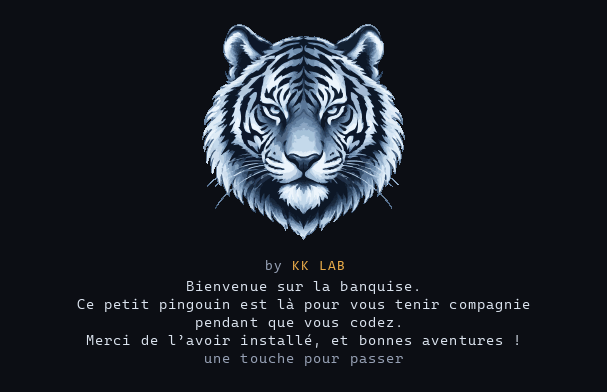
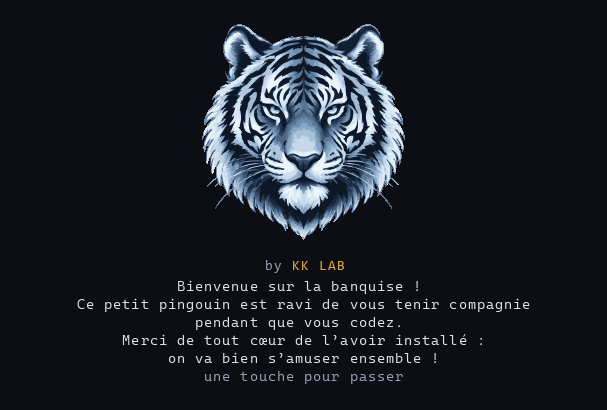
Warm up the intro message
« Bienvenue sur la banquise ! Ce petit pingouin est ravi de vous tenir compagnie pendant que vous codez. Merci de tout cœur de l’avoir installé : on va bien s’amuser ensemble ! »

Changed region(s): [[0.3262, 0.0612, 0.682, 0.6122], [0.1186, 0.6429, 0.8896, 0.949]]

diff --git a/dist/intro.js b/dist/intro.js
@@ -3,9 +3,9 @@ import { waitFrame } from "./frame-clock.js";
 import { imagesAllowed, mascotAspect, mascotBlocks, mascotHeight, mascotSixel, parseGraphics, queryTerminal } from "./mascot-render.js";
 /** The note, one sentence per line; on a narrow terminal, a sentence wraps between its pieces. */
 const NOTE = [
-    ['Bienvenue sur la banquise.'],
-    ['Ce petit pingouin est là', 'pour vous tenir compagnie', 'pendant que vous codez.'],
-    ['Merci de l’avoir installé,', 'et bonnes aventures !'],
+    ['Bienvenue sur la banquise !'],
+    ['Ce petit pingouin est ravi', 'de vous tenir compagnie', 'pendant que vous codez.'],
+    ['Merci de tout cœur', 'de l’avoir installé :', 'on va bien s’amuser ensemble !'],
 ];
 const NOTE_TEXT = NOTE.map((pieces) => pieces.join(' ')).join(' ');
 /** The note's lines on a terminal `cols` wide; `last` ends a sentence. */

diff --git a/src/intro.ts b/src/intro.ts
@@ -23,9 +23,9 @@ interface IntroInput {
 
 /** The note, one sentence per line; on a narrow terminal, a sentence wraps between its pieces. */
 const NOTE = [
-  ['Bienvenue sur la banquise.'],
-  ['Ce petit pingouin est là', 'pour vous tenir compagnie', 'pendant que vous codez.'],
-  ['Merci de l’avoir installé,', 'et bonnes aventures !'],
+  ['Bienvenue sur la banquise !'],
+  ['Ce petit pingouin est ravi', 'de vous tenir compagnie', 'pendant que vous codez.'],
+  ['Merci de tout cœur', 'de l’avoir installé :', 'on va bien s’amuser ensemble !'],
 ];
 const NOTE_TEXT = NOTE.map((pieces) => pieces.join(' ')).join(' ');
 /** The note's lines on a terminal `cols` wide; `last` ends a sentence. */

diff --git a/README.md b/README.md
@@ -15,9 +15,9 @@ glace… Et il te répond quand tu cliques dessus. Rien à configurer, rien à
 taper : il comprend tout seul ce qui se passe, et ne vient jamais interrompre
 ni recouvrir l’IA.
 
-> **Bienvenue sur la banquise.** Ce petit pingouin est là pour vous tenir
-> compagnie pendant que vous codez. Merci de l’avoir installé, et bonnes
-> aventures !
+> **Bienvenue sur la banquise !** Ce petit pingouin est ravi de vous tenir
+> compagnie pendant que vous codez. Merci de tout cœur de l’avoir installé :
+> on va bien s’amuser ensemble !
 
 ![Le bandeau sous l’IA, quatre moments de ses histoires : Bulle pris à l’hameçon, Nounours l’ours qui demande au pingouin d’être son ami, une balade sur le dos de Bernadette la baleine, l’aurore boréale](docs/penguin-band.png)
 
